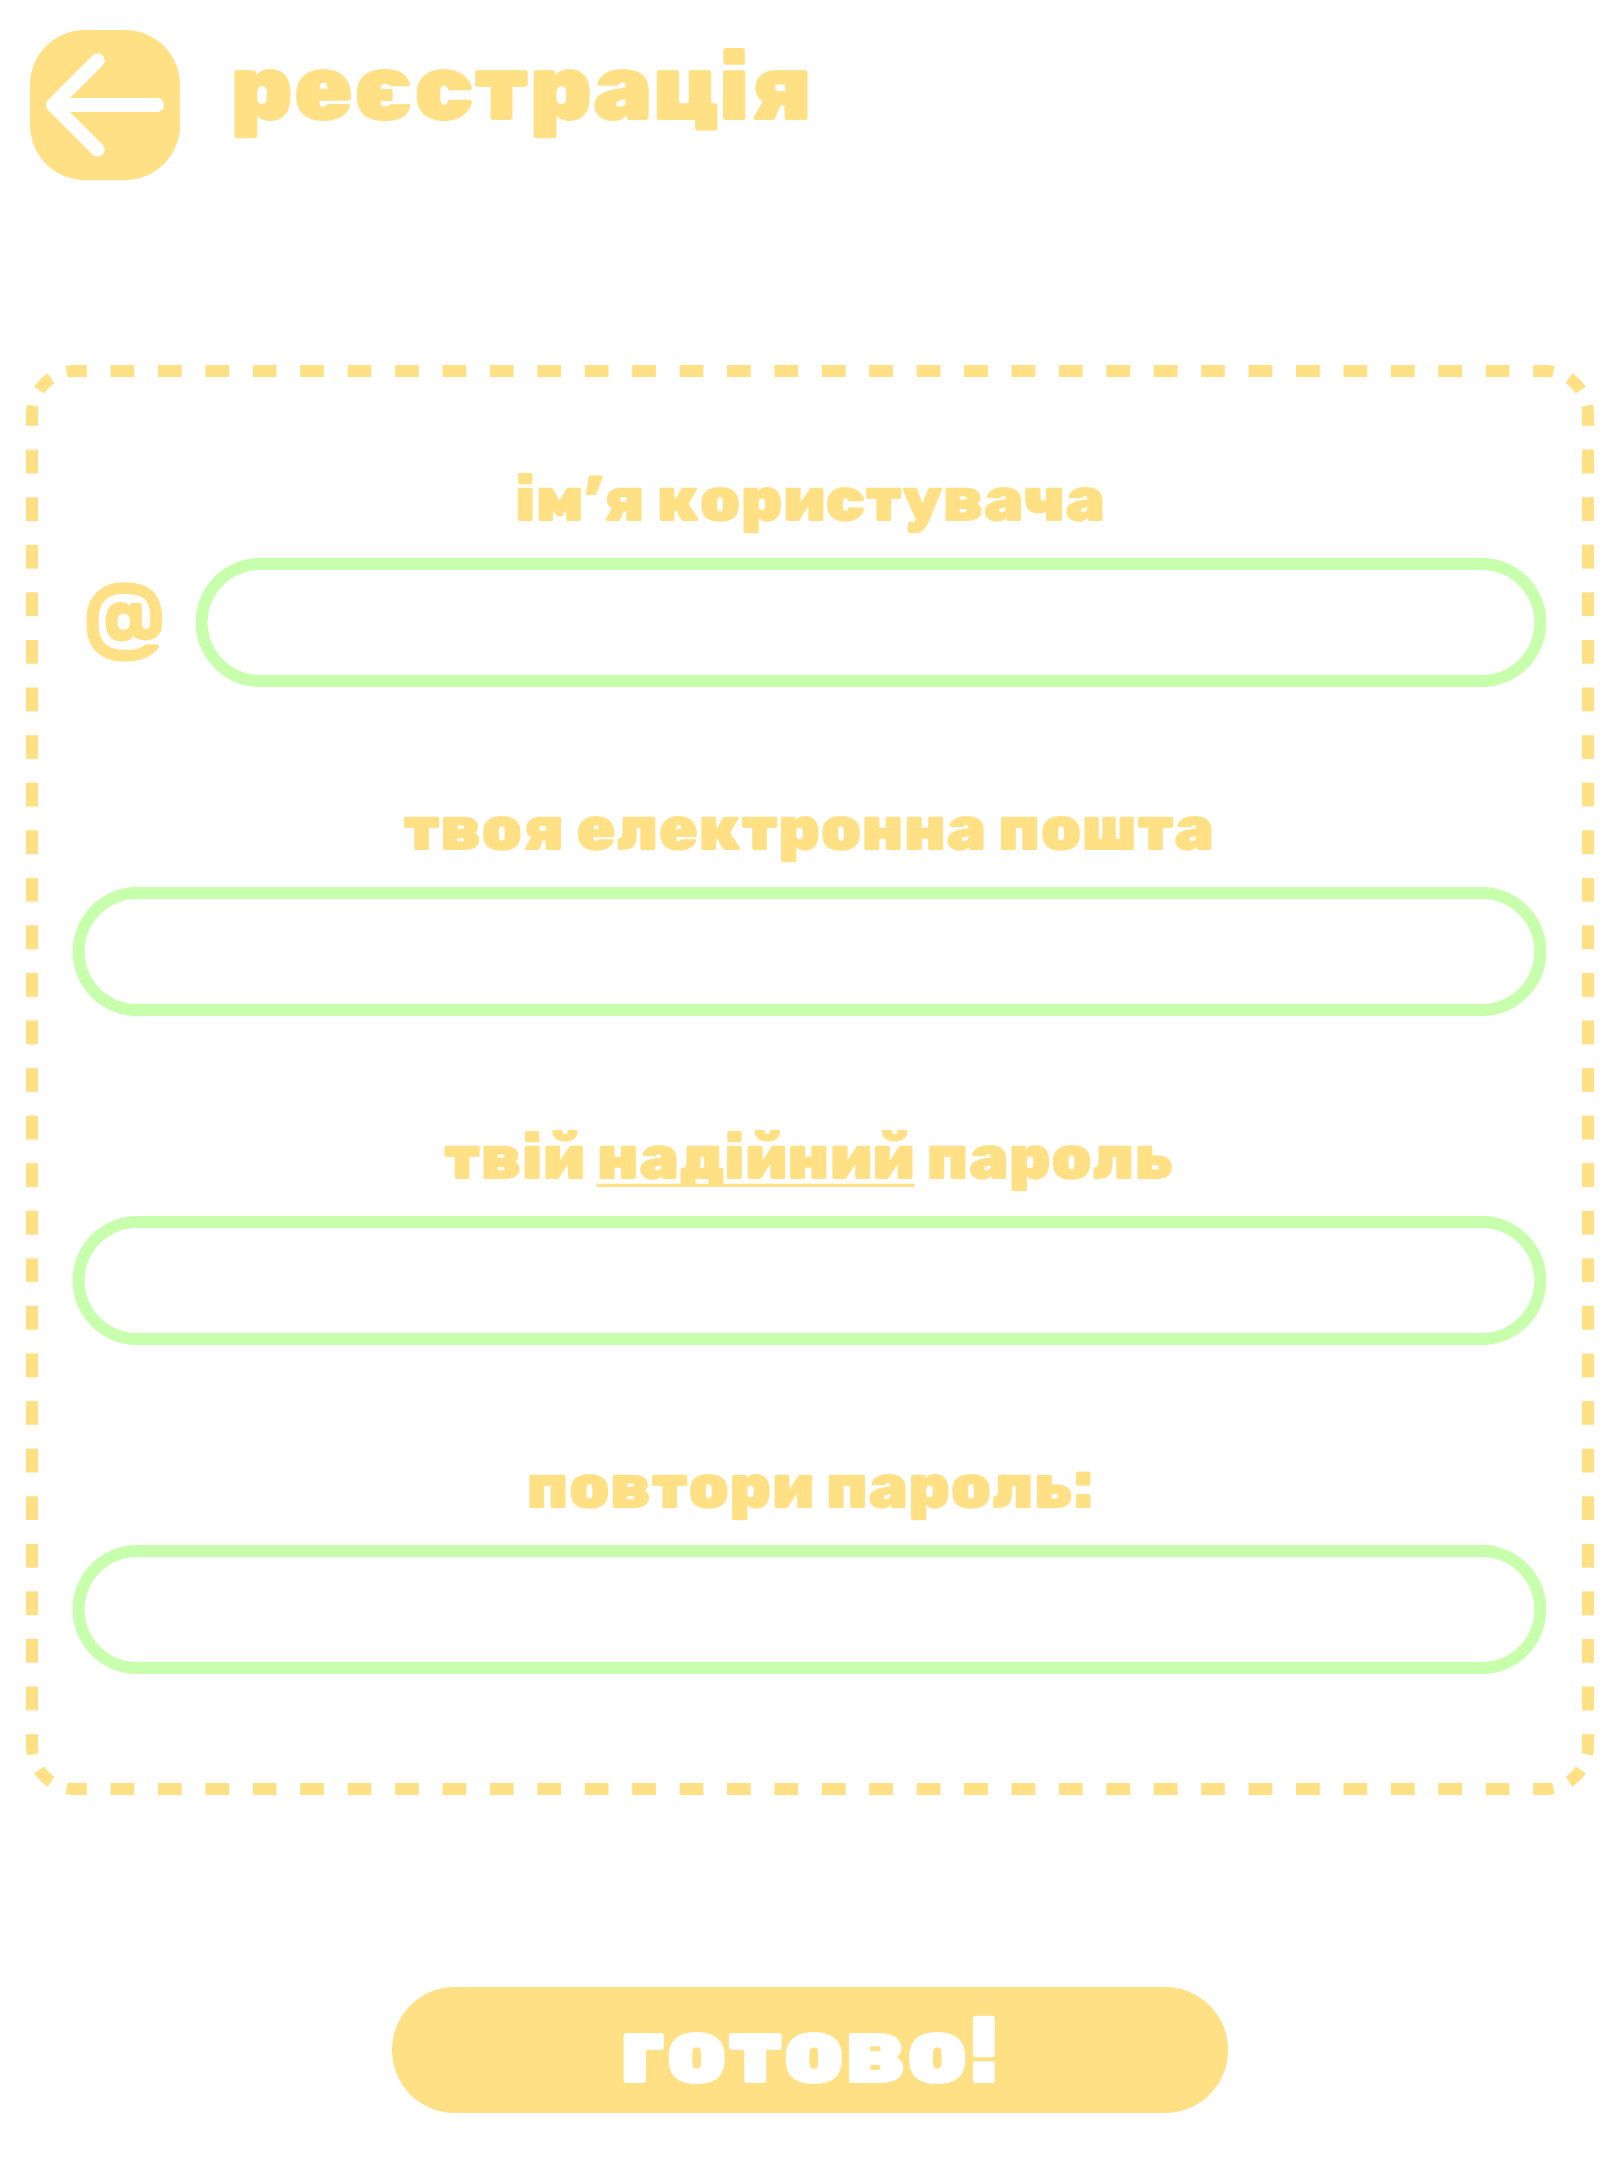
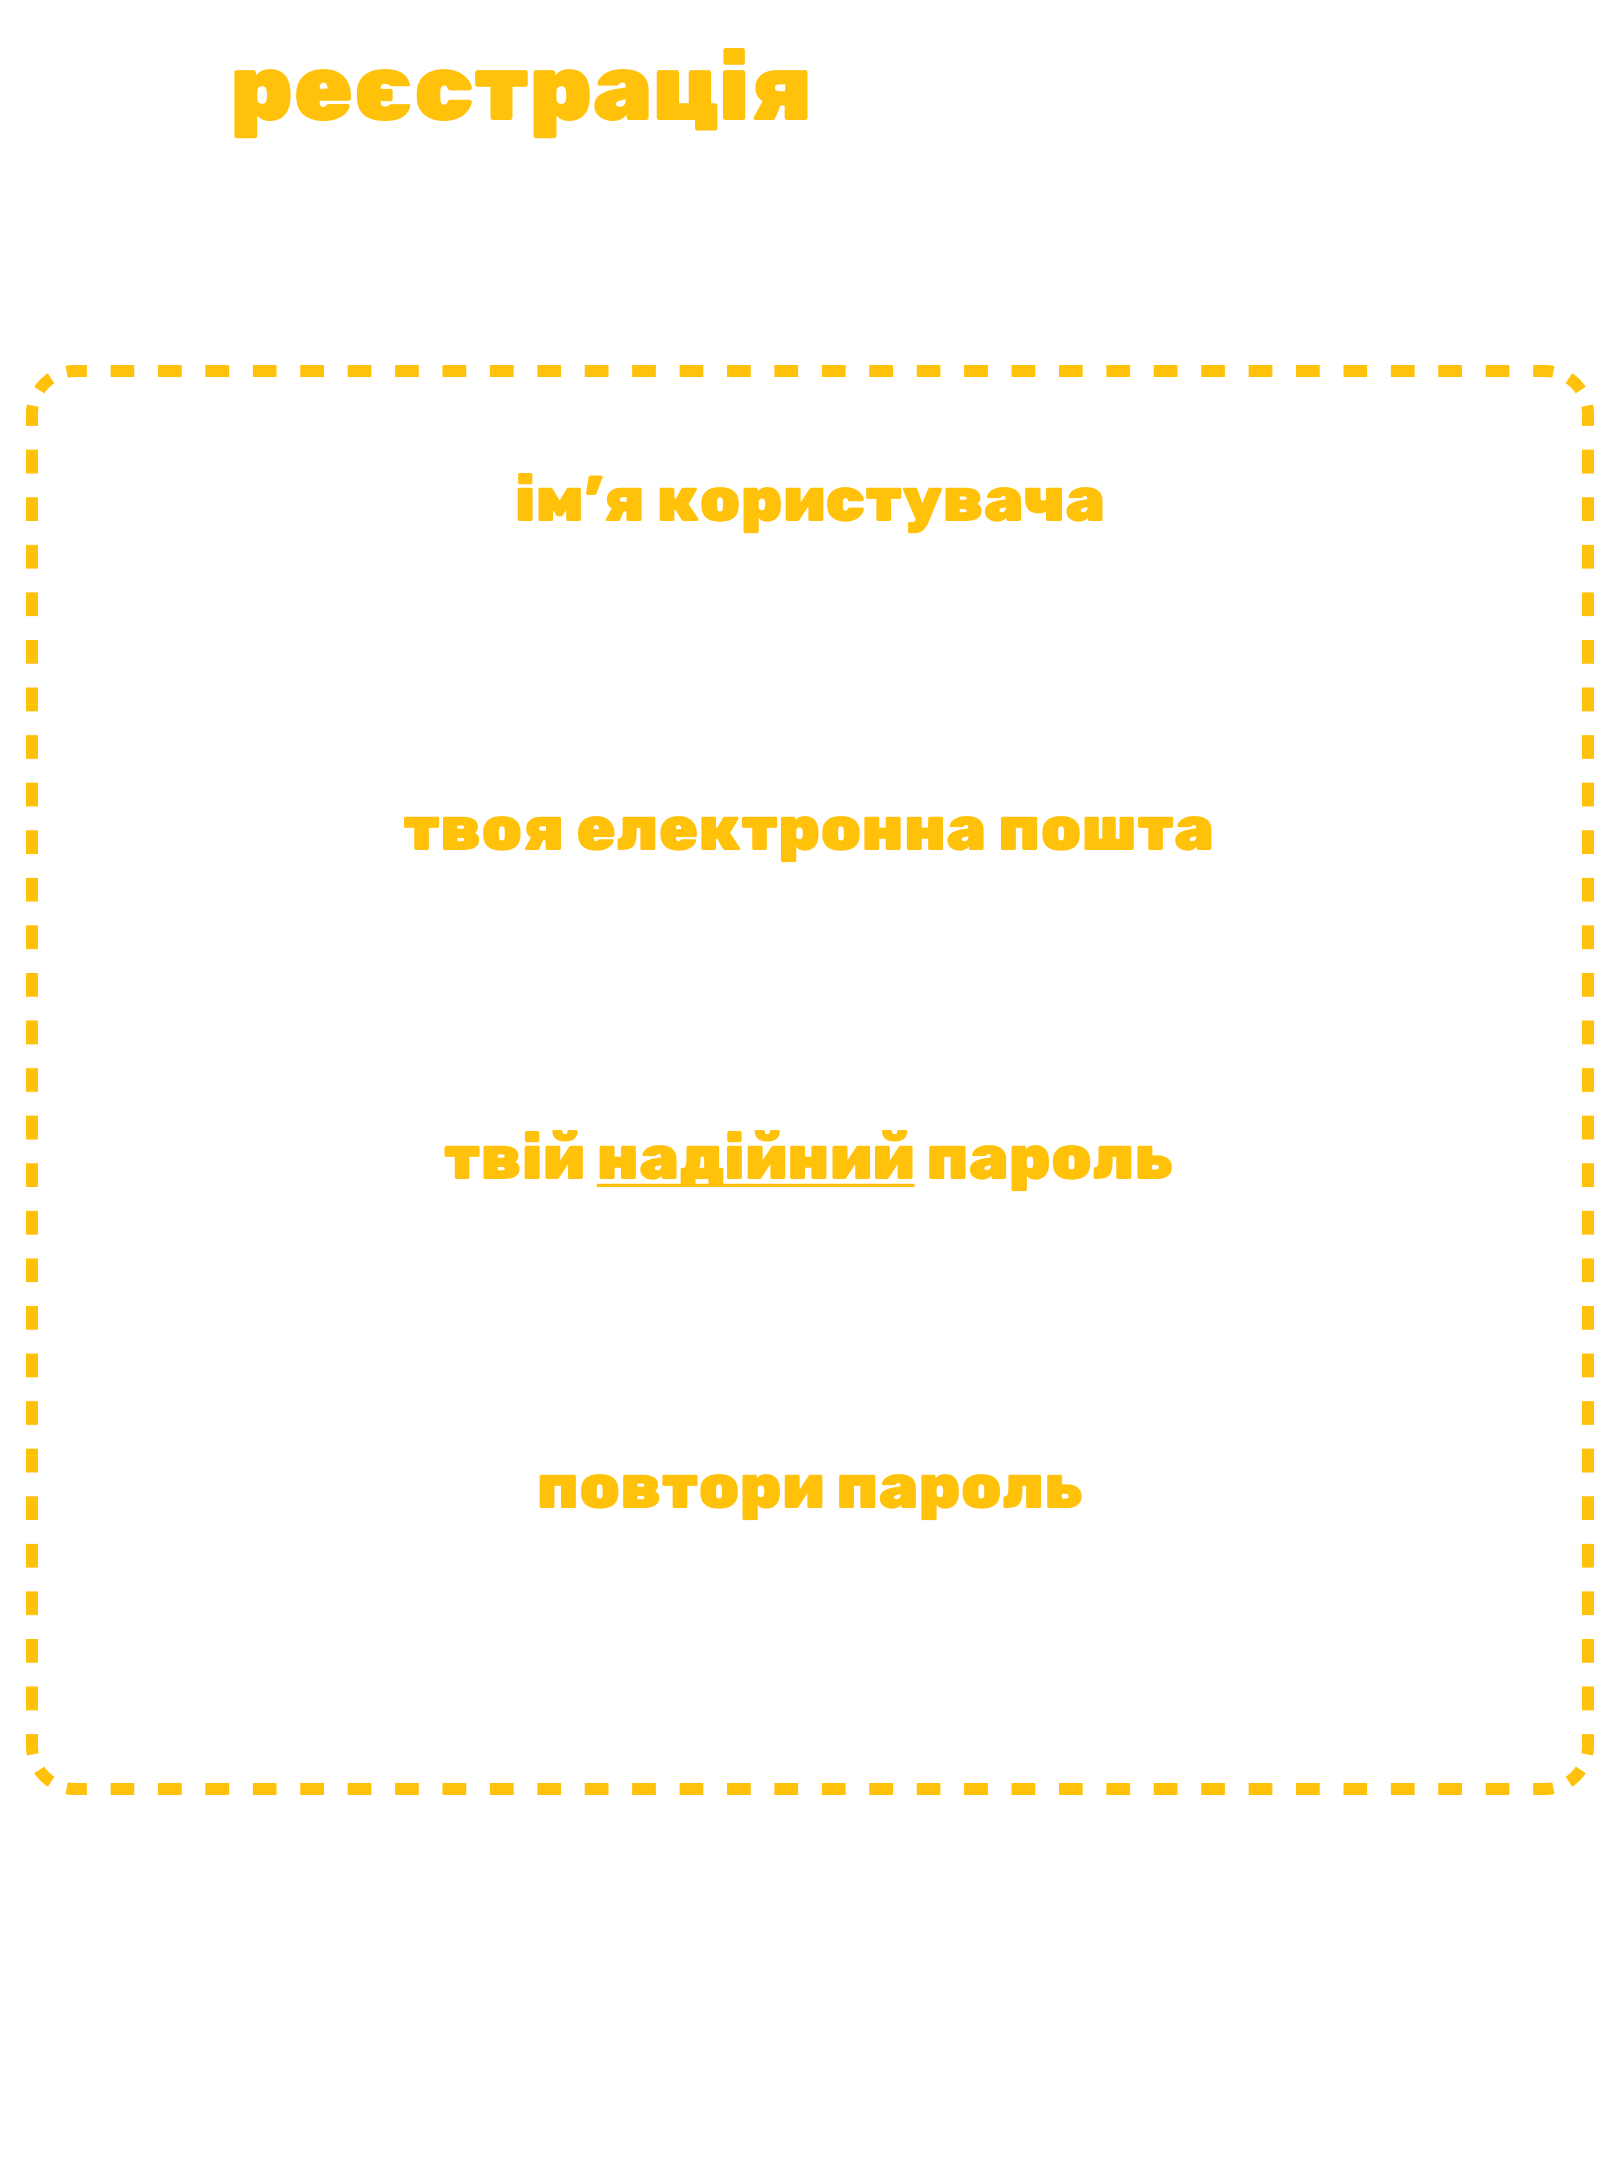
commit

diff --git a/login.html b/login.html
@@ -1,0 +1,107 @@
+<!DOCTYPE html>
+<html lang="en">
+<head>
+    <meta charset="UTF-8">
+    <meta http-equiv="X-UA-Compatible" content="IE=edge">
+    <meta name="viewport" content="width=device-width, initial-scale=1.0">
+    <link rel="shortcut icon" href="sources/icon.png">
+    <title>MAX</title>
+</head>
+<body>
+    <style>
+        body{
+            overflow: hidden;
+            background-image: url(sources/login.png);
+        }
+        .exit{
+            position: absolute;
+            left: 30px;
+            top: 30px;
+        }
+        .usernameInput{
+            width: 1264px;
+            height: 45px;
+            border-radius: 100px;
+            border: 12px solid #8FFF59;
+            color: #555;
+            font-family: Rubik;
+            font-size: 56px;
+            font-style: normal;
+            font-weight: 900;
+            line-height: normal;
+            padding: 30px;
+            position: absolute;
+            left: 195px;
+            top: 558px;
+        }
+        .emailInput{
+            width: 1390px;
+            height: 45px;
+            border-radius: 100px;
+            border: 12px solid #8FFF59;
+            color: #555;
+            font-family: Rubik;
+            font-size: 56px;
+            font-style: normal;
+            font-weight: 900;
+            line-height: normal;
+            padding: 30px;
+            position: absolute;
+            left: 73px;
+            top: 887px;
+        }
+        .passwordInput{
+            width: 1390px;
+            height: 45px;
+            border-radius: 100px;
+            border: 12px solid #8FFF59;
+            color: #555;
+            font-family: Rubik;
+            font-size: 56px;
+            font-style: normal;
+            font-weight: 900;
+            line-height: normal;
+            padding: 30px;
+            position: absolute;
+            left: 73px;
+            top: 1216px;
+        }
+        .repasswordInput{
+            width: 1390px;
+            height: 45px;
+            border-radius: 100px;
+            border: 12px solid #8FFF59;
+            color: #555;
+            font-family: Rubik;
+            font-size: 56px;
+            font-style: normal;
+            font-weight: 900;
+            line-height: normal;
+            padding: 30px;
+            position: absolute;
+            left: 73px;
+            top: 1545px;
+        }
+        .done{
+            position: absolute;
+            left: 392px;
+            top: 1987px;
+        }
+
+    </style>
+
+
+    <header>
+        <a href="index.html" class="exit"><img src="sources/regExit.png"></a>
+    </header>
+    <div class="input">
+        <input type="text" class="usernameInput">
+        <input type="email" class="emailInput">
+        <input type="password" class="passwordInput">
+        <input type="password" class="repasswordInput">
+    </div>
+
+    <a href="" class="done"><img src="sources/yellowDone.png"a>
+
+</body>
+</html>

diff --git a/signup.html b/signup.html
@@ -18,17 +18,90 @@
             left: 30px;
             top: 30px;
         }
+        .usernameInput{
+            width: 1264px;
+            height: 45px;
+            border-radius: 100px;
+            border: 12px solid #8FFF59;
+            color: #555;
+            font-family: Rubik;
+            font-size: 56px;
+            font-style: normal;
+            font-weight: 900;
+            line-height: normal;
+            padding: 30px;
+            position: absolute;
+            left: 195px;
+            top: 558px;
+        }
+        .emailInput{
+            width: 1390px;
+            height: 45px;
+            border-radius: 100px;
+            border: 12px solid #8FFF59;
+            color: #555;
+            font-family: Rubik;
+            font-size: 56px;
+            font-style: normal;
+            font-weight: 900;
+            line-height: normal;
+            padding: 30px;
+            position: absolute;
+            left: 73px;
+            top: 887px;
+        }
+        .passwordInput{
+            width: 1390px;
+            height: 45px;
+            border-radius: 100px;
+            border: 12px solid #8FFF59;
+            color: #555;
+            font-family: Rubik;
+            font-size: 56px;
+            font-style: normal;
+            font-weight: 900;
+            line-height: normal;
+            padding: 30px;
+            position: absolute;
+            left: 73px;
+            top: 1216px;
+        }
+        .repasswordInput{
+            width: 1390px;
+            height: 45px;
+            border-radius: 100px;
+            border: 12px solid #8FFF59;
+            color: #555;
+            font-family: Rubik;
+            font-size: 56px;
+            font-style: normal;
+            font-weight: 900;
+            line-height: normal;
+            padding: 30px;
+            position: absolute;
+            left: 73px;
+            top: 1545px;
+        }
+        .done{
+            position: absolute;
+            left: 392px;
+            top: 1987px;
+        }
+
     </style>
 
 
     <header>
         <a href="index.html" class="exit"><img src="sources/regExit.png"></a>
     </header>
+    <div class="input">
+        <input type="text" class="usernameInput">
+        <input type="email" class="emailInput">
+        <input type="password" class="passwordInput">
+        <input type="password" class="repasswordInput">
+    </div>
 
-    <input type="text" class="usernameInput">
-    <input type="text" class="emailInput">
-    <input type="password" class="passwordInput">
-    <input type="password" class="repasswordInput">
+    <a href="" class="done"><img src="sources/yellowDone.png"a>
 
 </body>
 </html>
